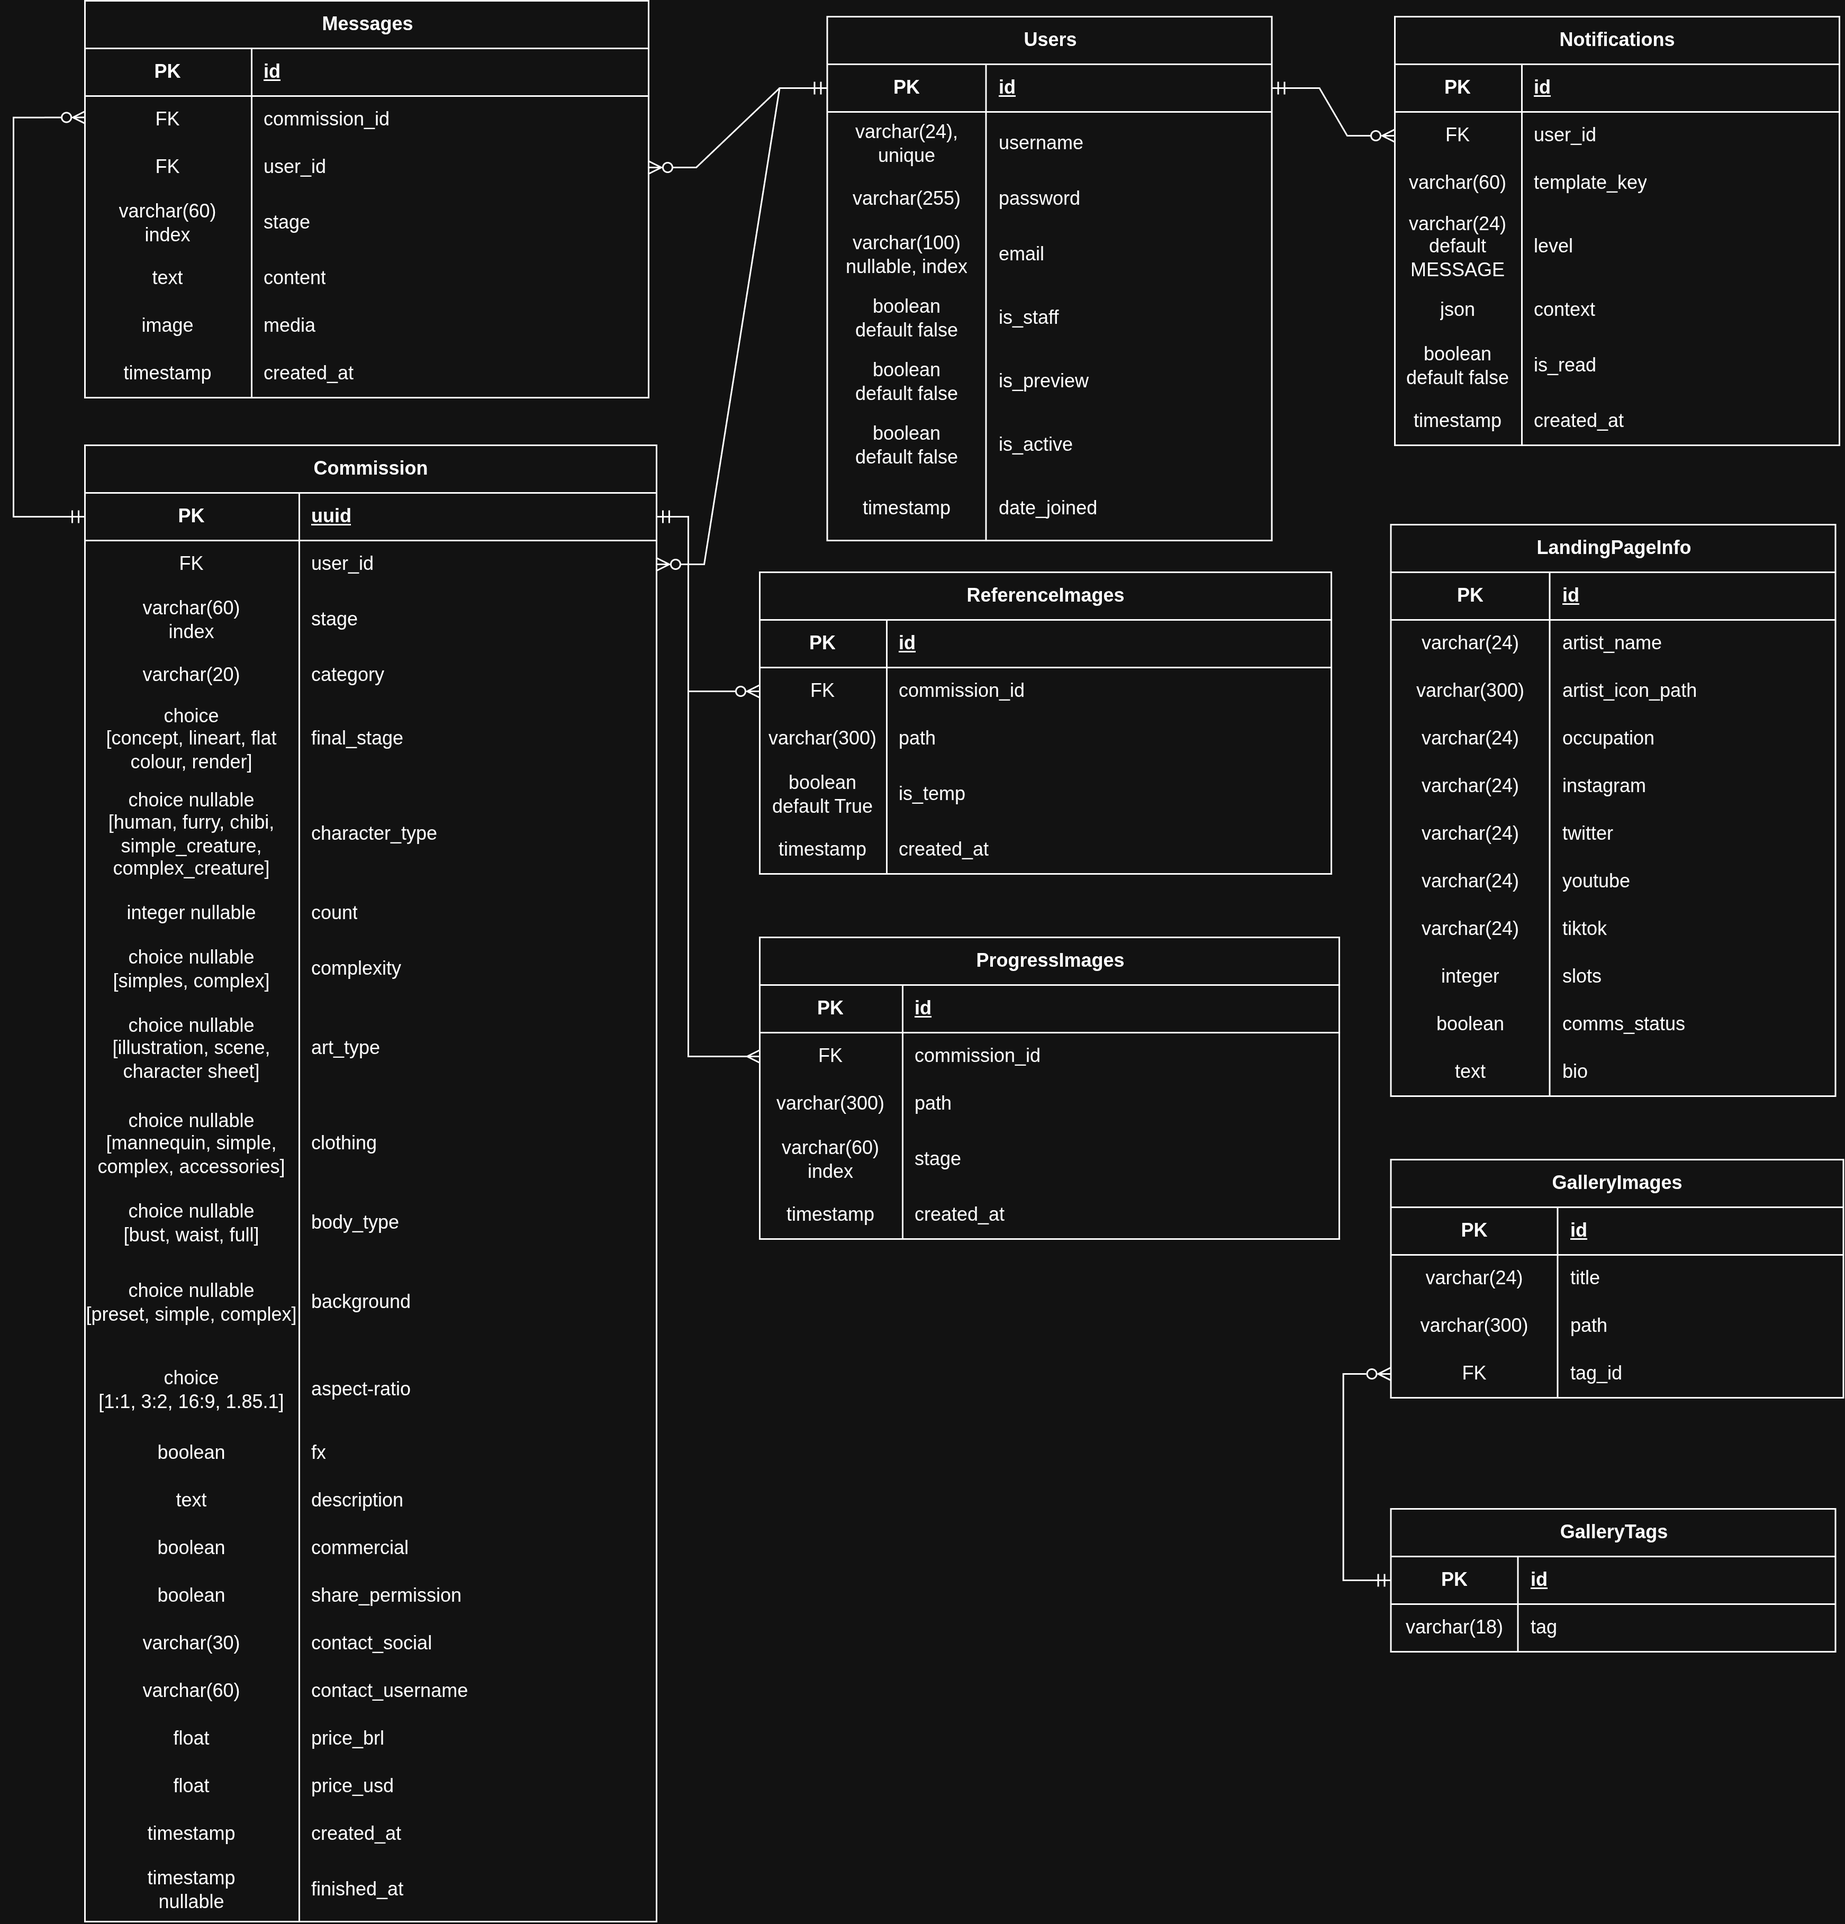
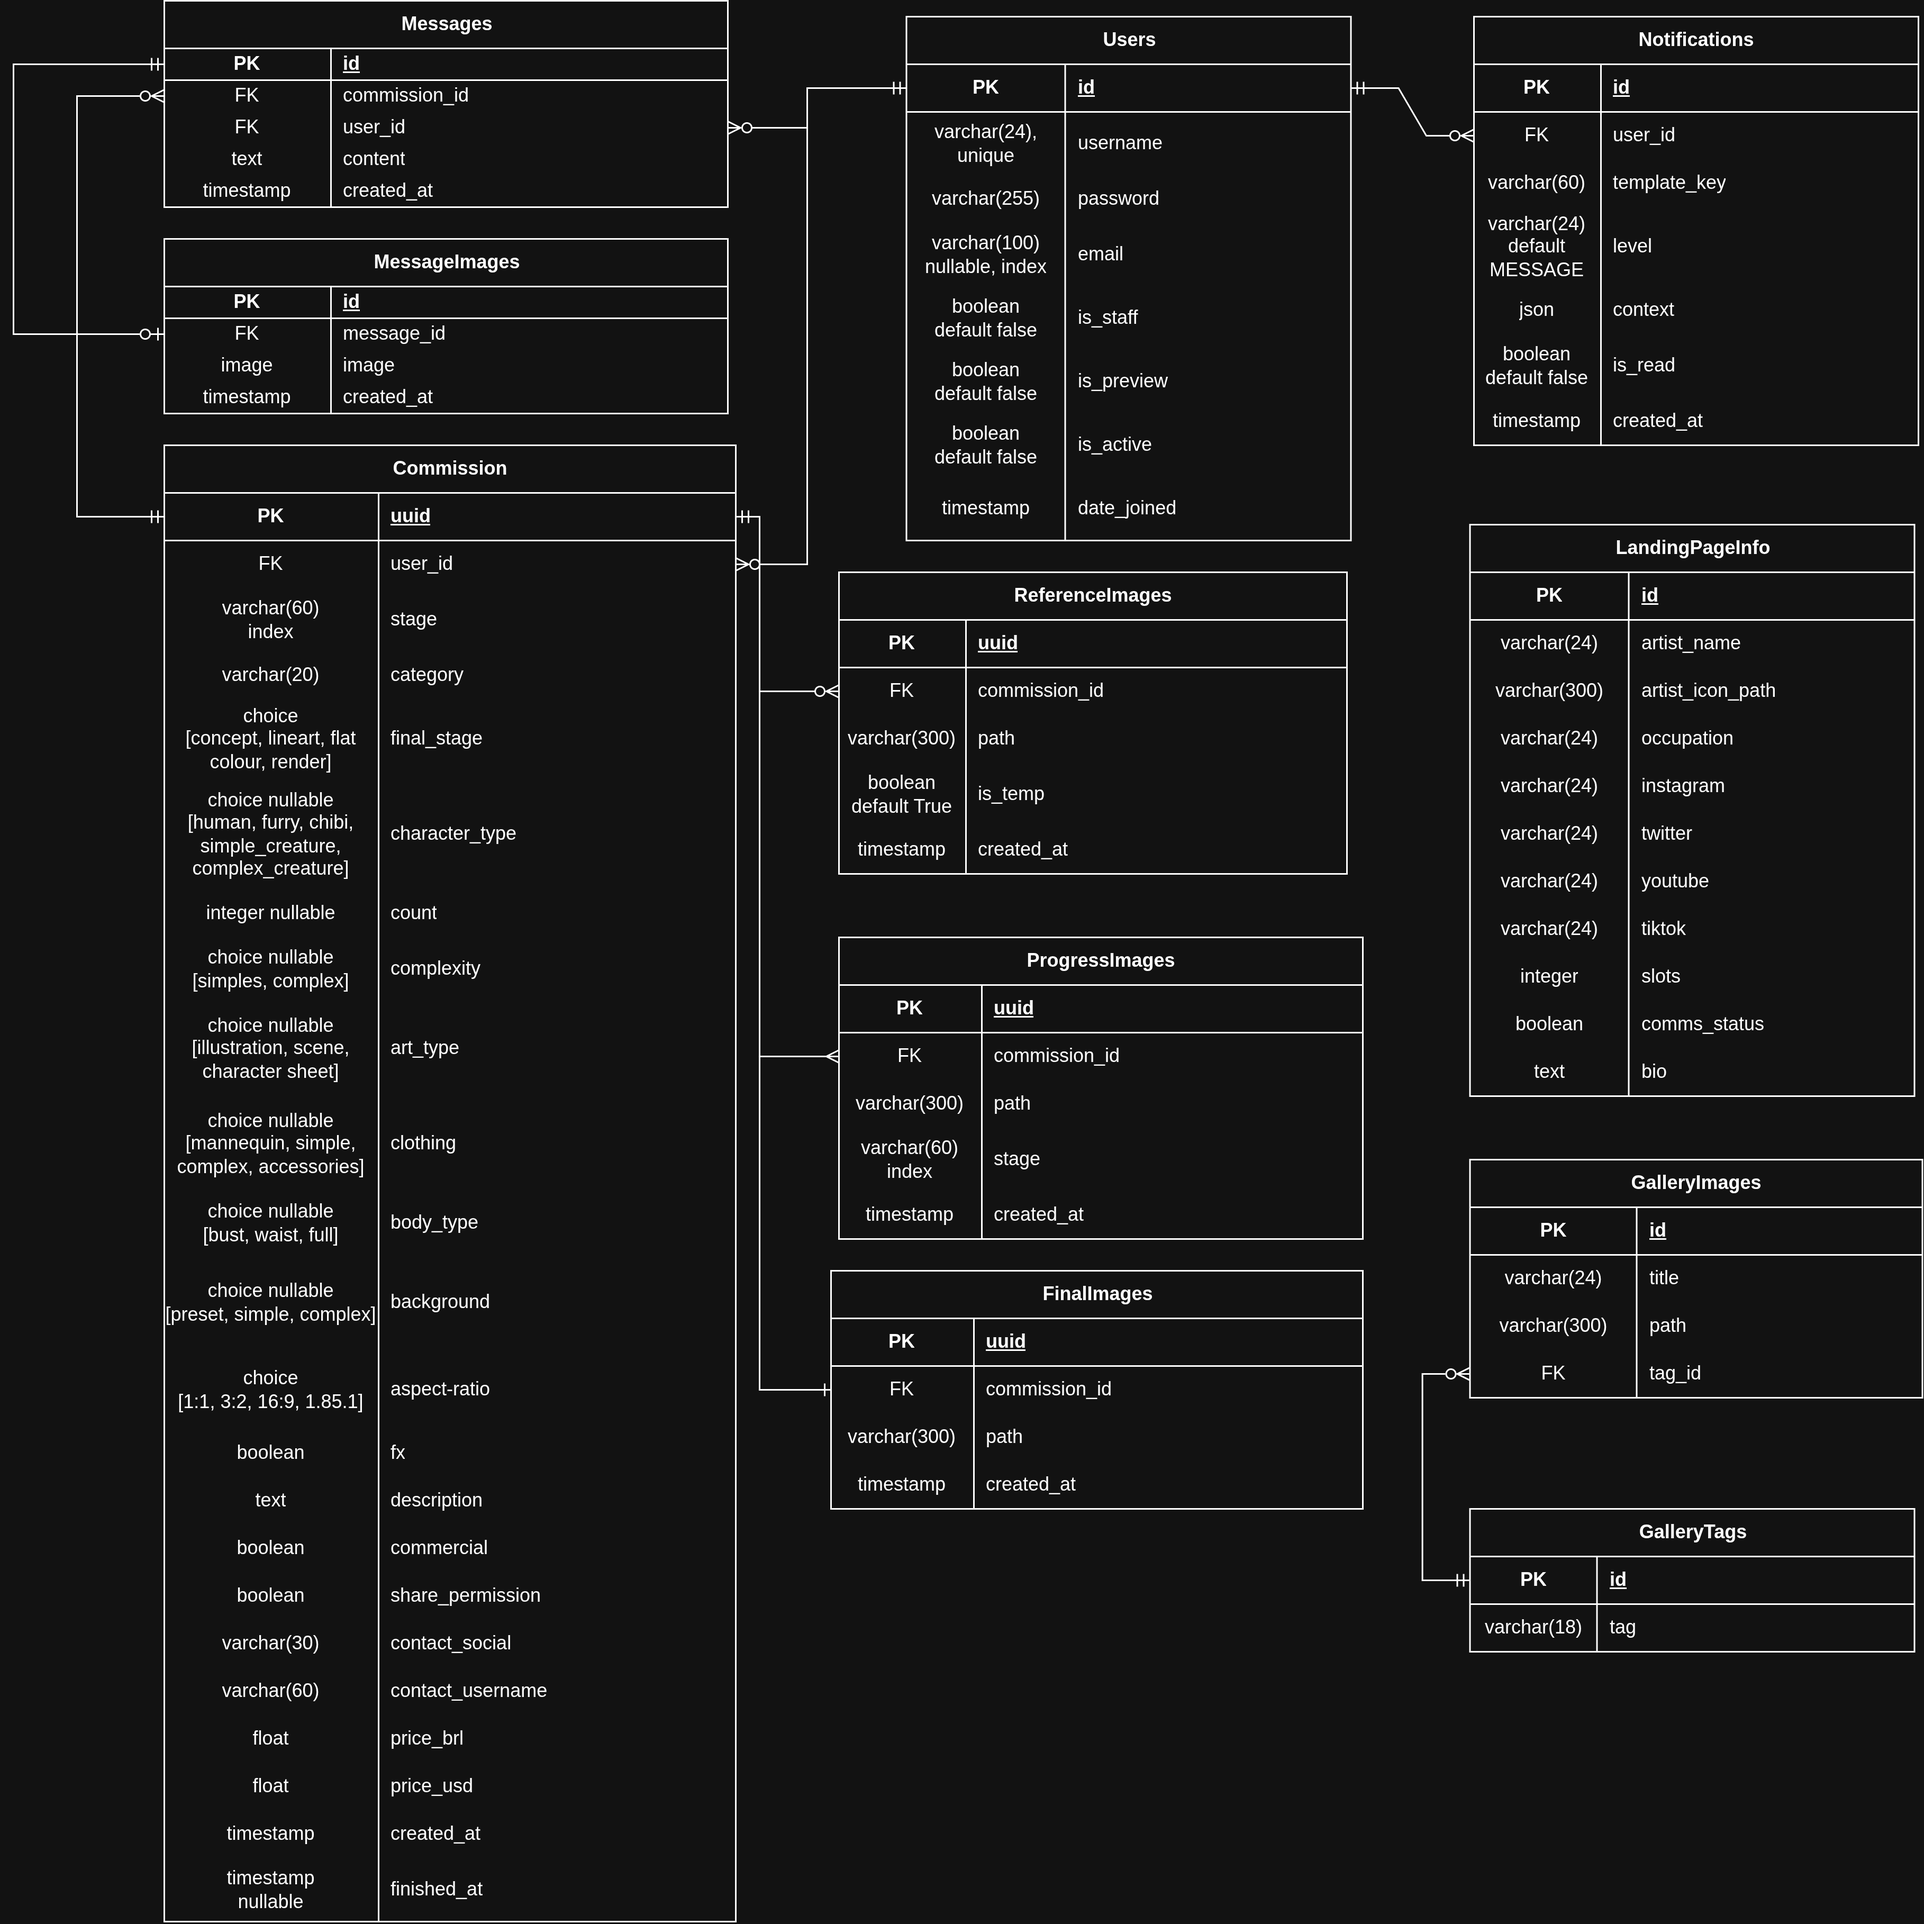
docs: Update ER diagram with new table MessageImages and adjust messages table.

diff --git a/chat/models.py b/chat/models.py
@@ -15,5 +15,3 @@ class Message(models.Model):
     content = models.TextField(max_length=600)
     created_at = models.DateTimeField(auto_now_add=True)
     is_event = models.BooleanField()
-
-    # TODO: Atualizar diagrama ER
